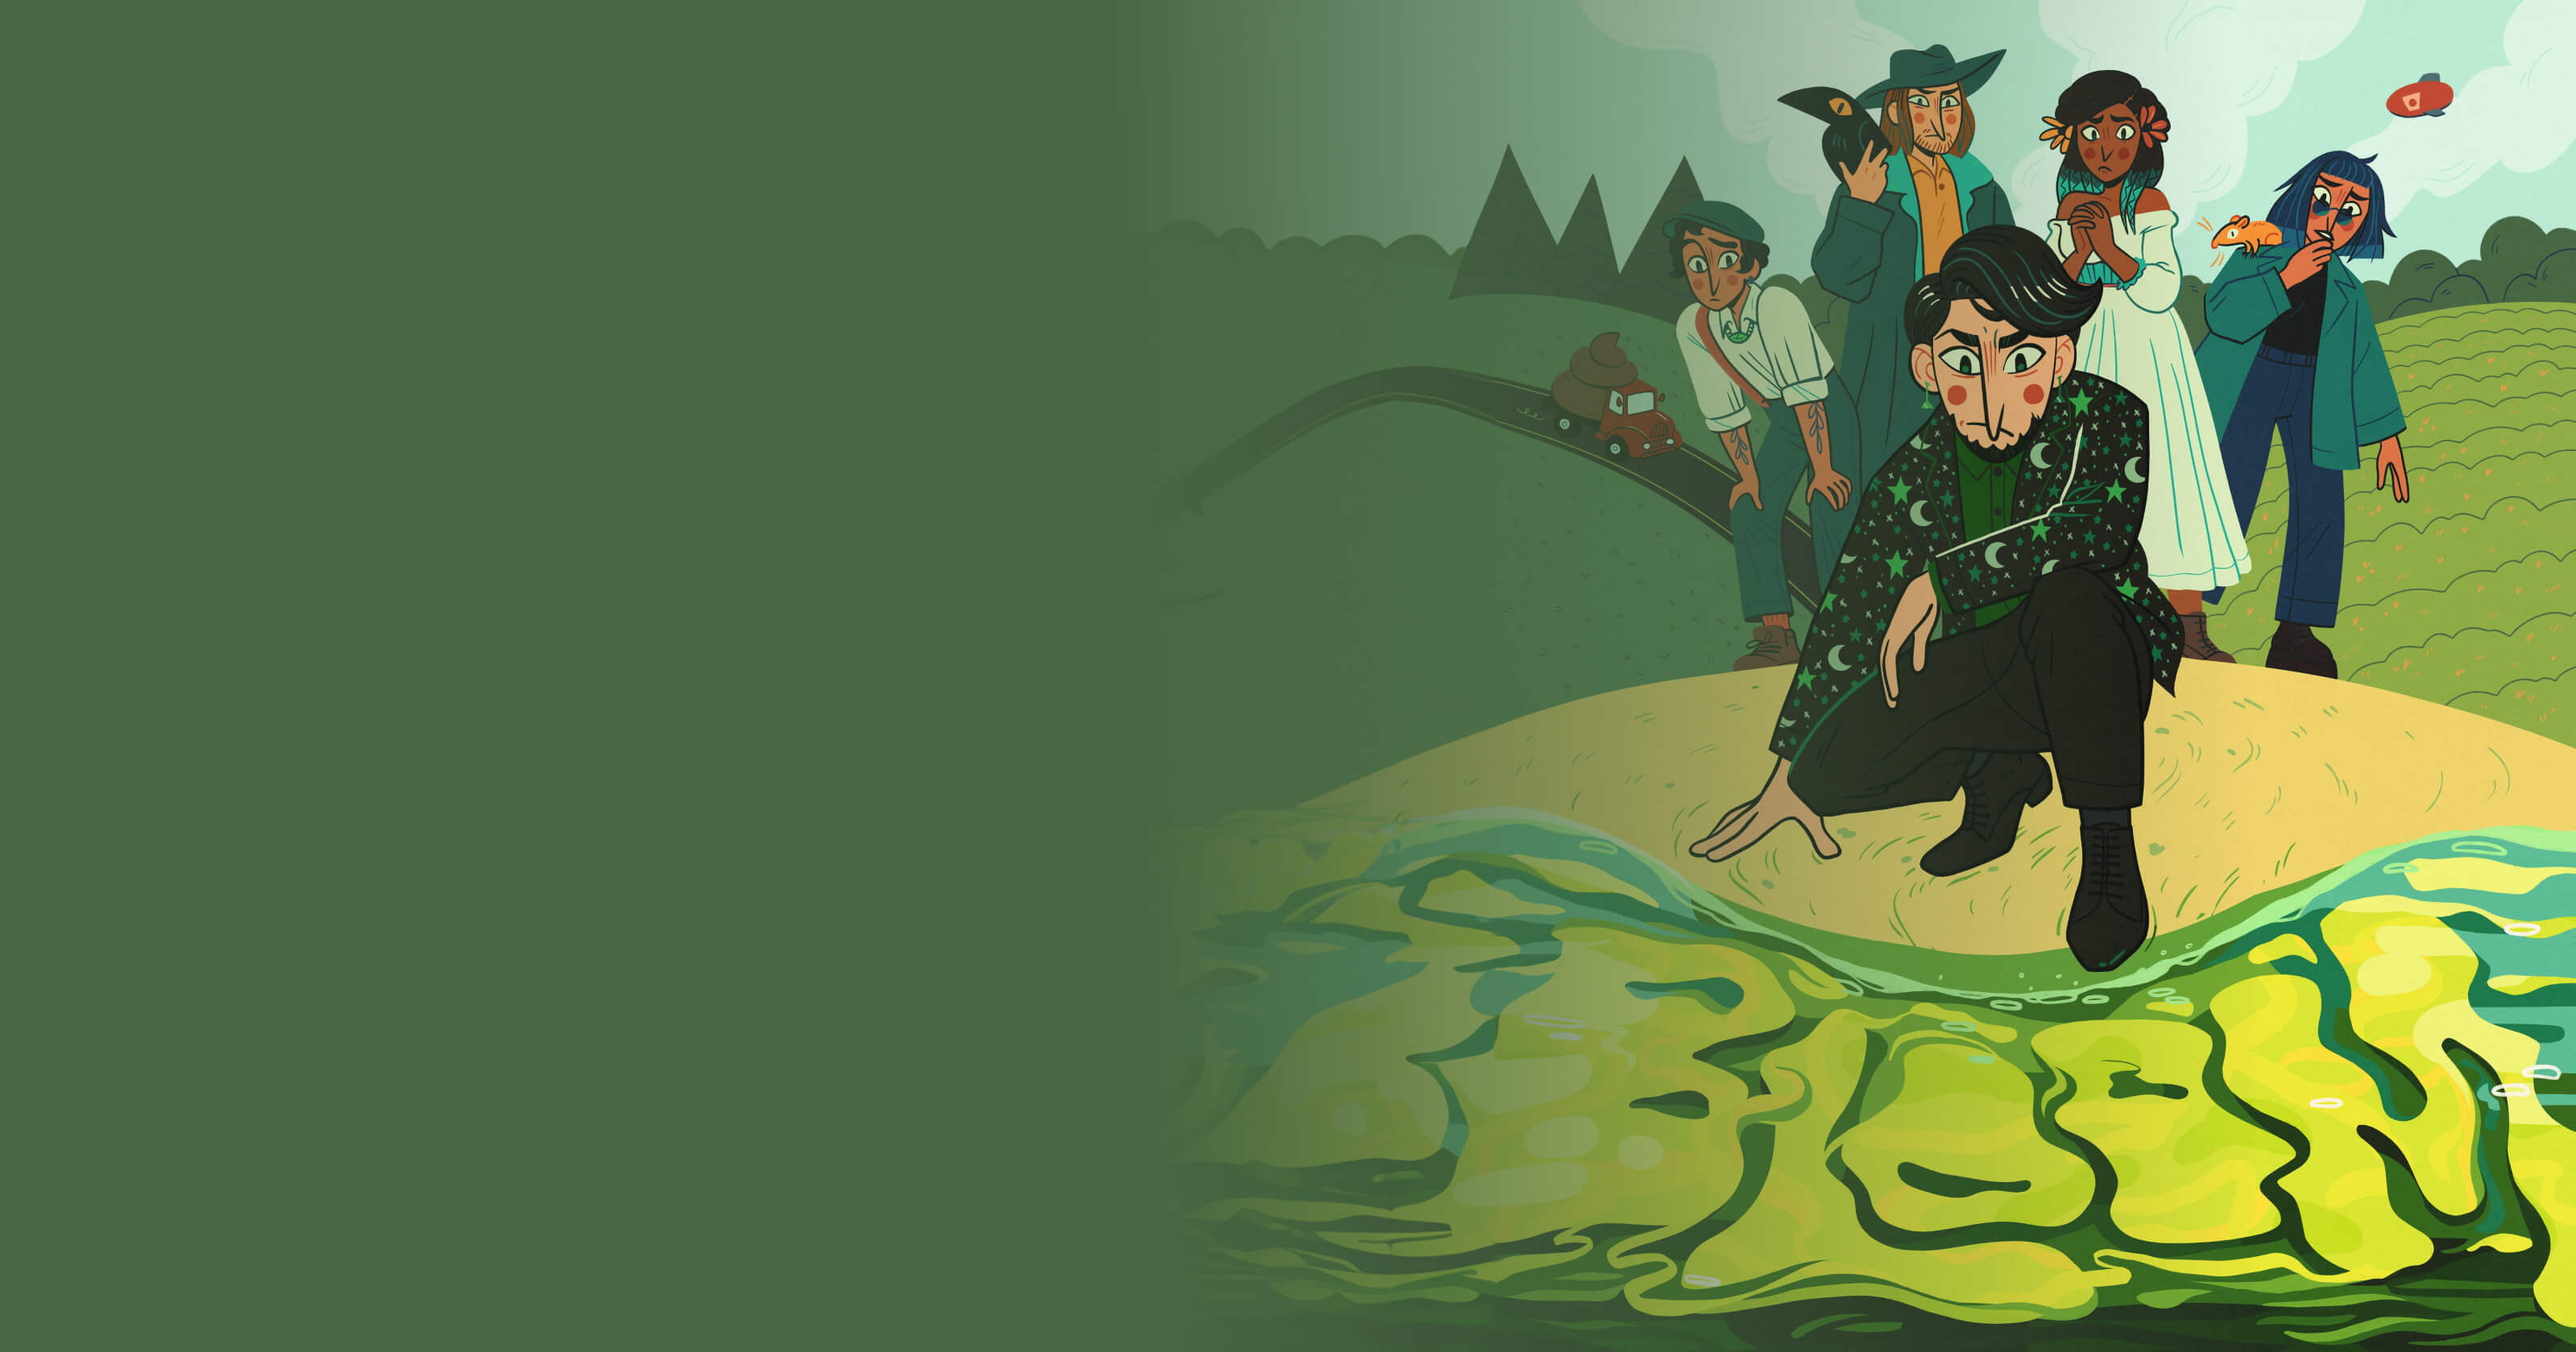
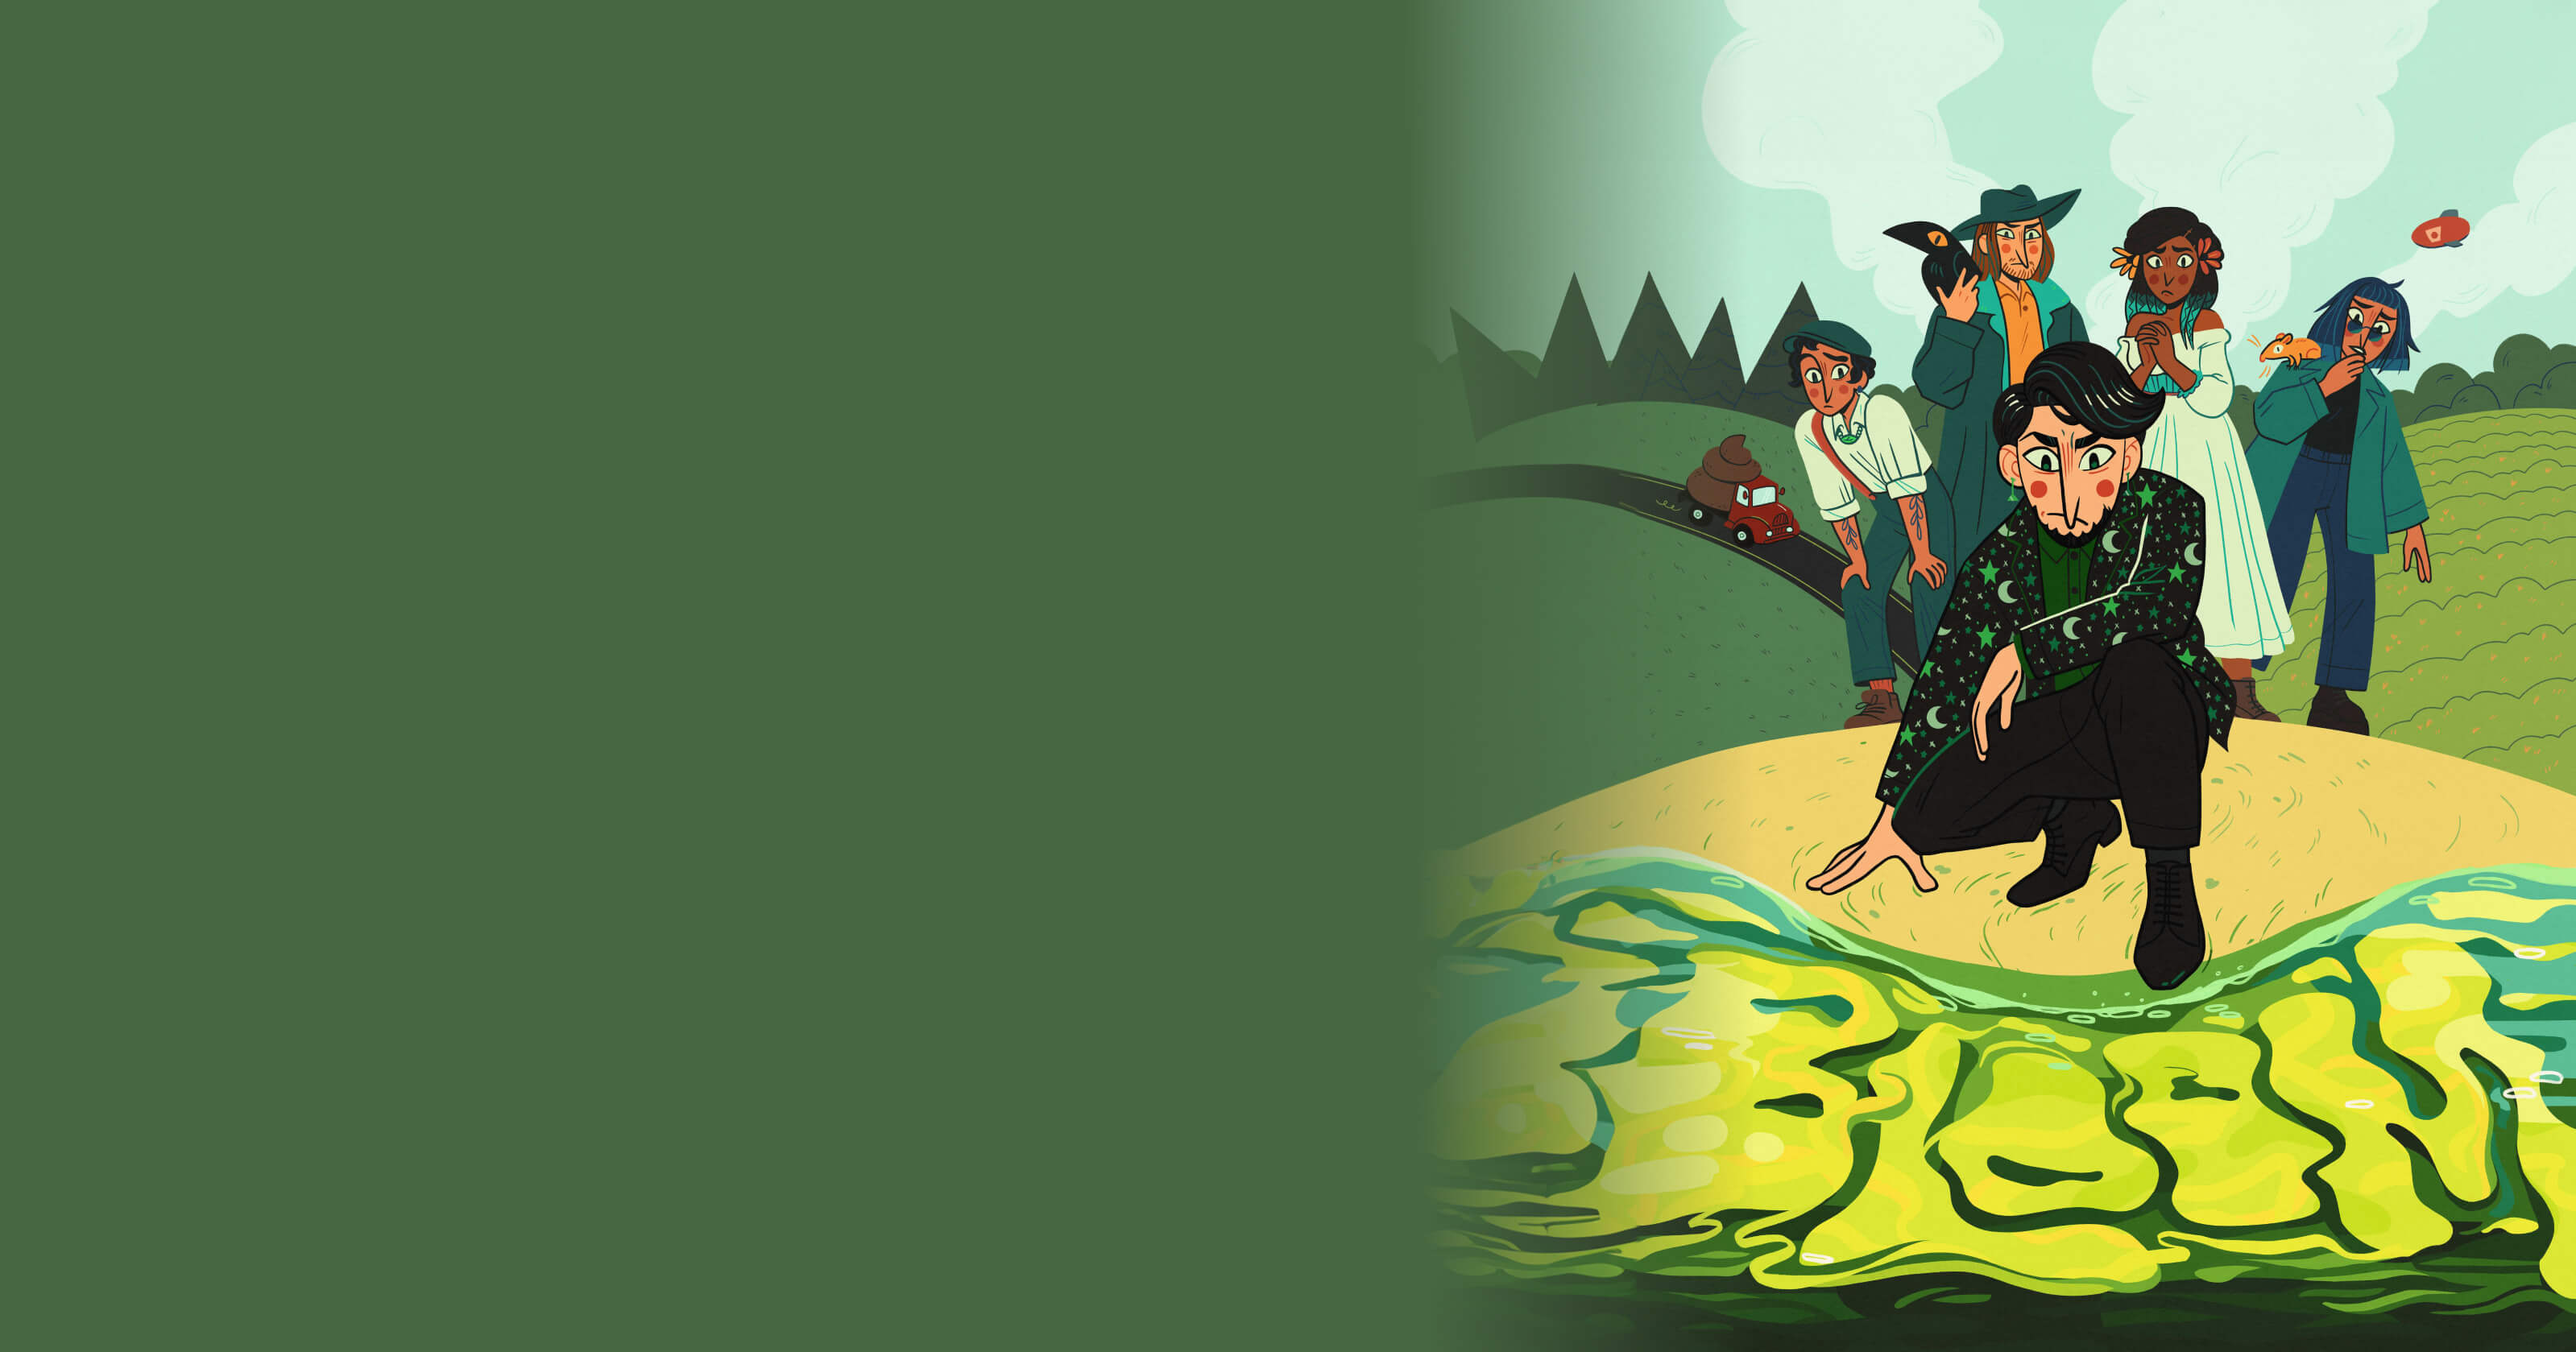
fixed layout problem with bloom background

diff --git a/assets/css/styles_ver3.css b/assets/css/styles_ver3.css
@@ -11592,7 +11592,7 @@ Yeah .hero-slider .carousel-inner .item .item-info img.small_hero_img {
 .hero-slider .carousel-inner .item:nth-child(1) {
   background: url(../img/hero-images/bloom-bg.jpg) no-repeat;
   background-size: cover;
-  background-position: center;
+  background-position: right;
 }
 
 .hero-slider .carousel-inner .item:nth-child(1) .item-info img {

diff --git a/assets/scss/_hero.scss b/assets/scss/_hero.scss
@@ -83,7 +83,7 @@
     .item:nth-child(1) {
       background: url(../img/hero-images/bloom-bg.jpg) no-repeat;
       background-size:cover;
-      background-position:center;
+      background-position:right;
       .item-info {
         img {
           width:35vw;
